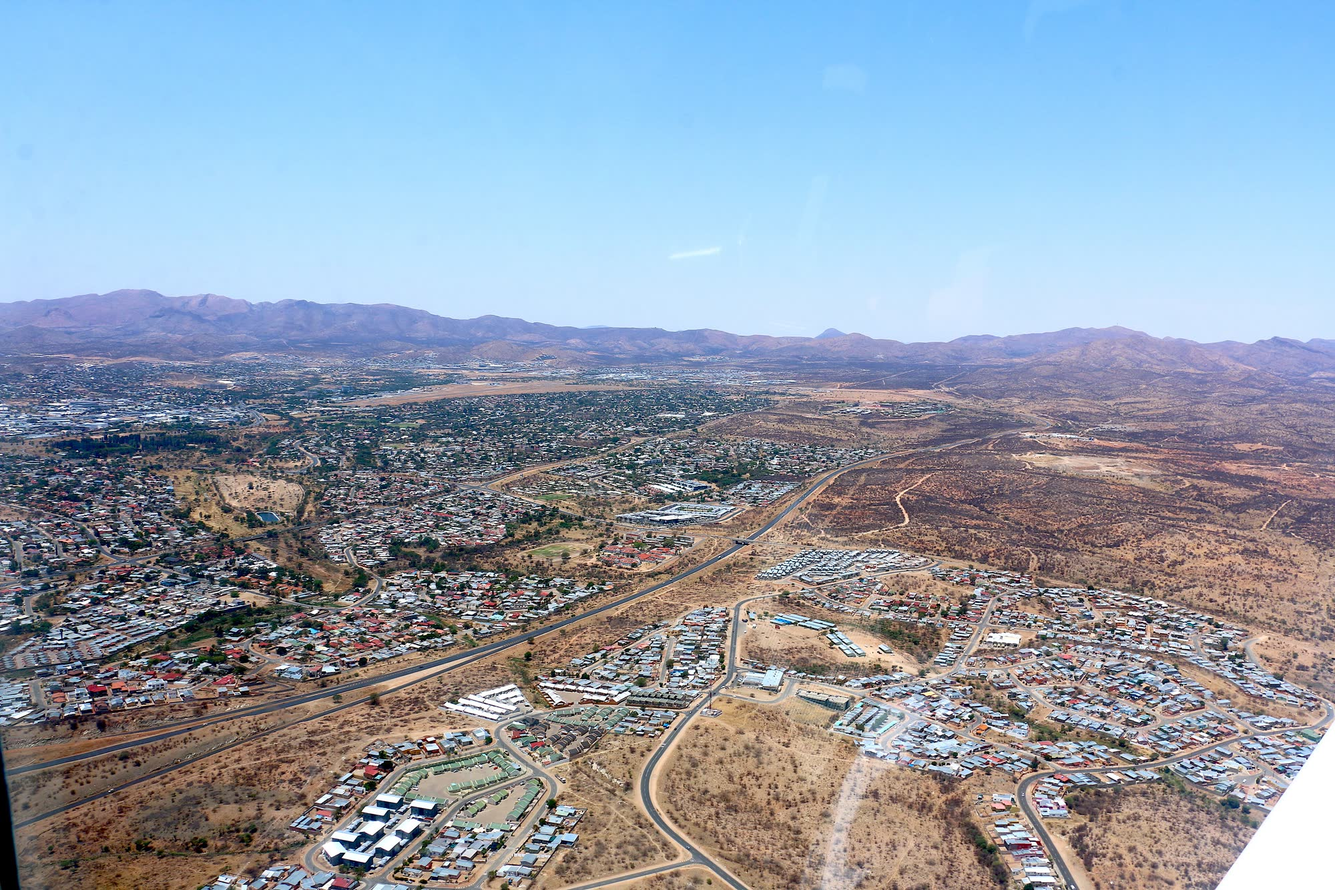
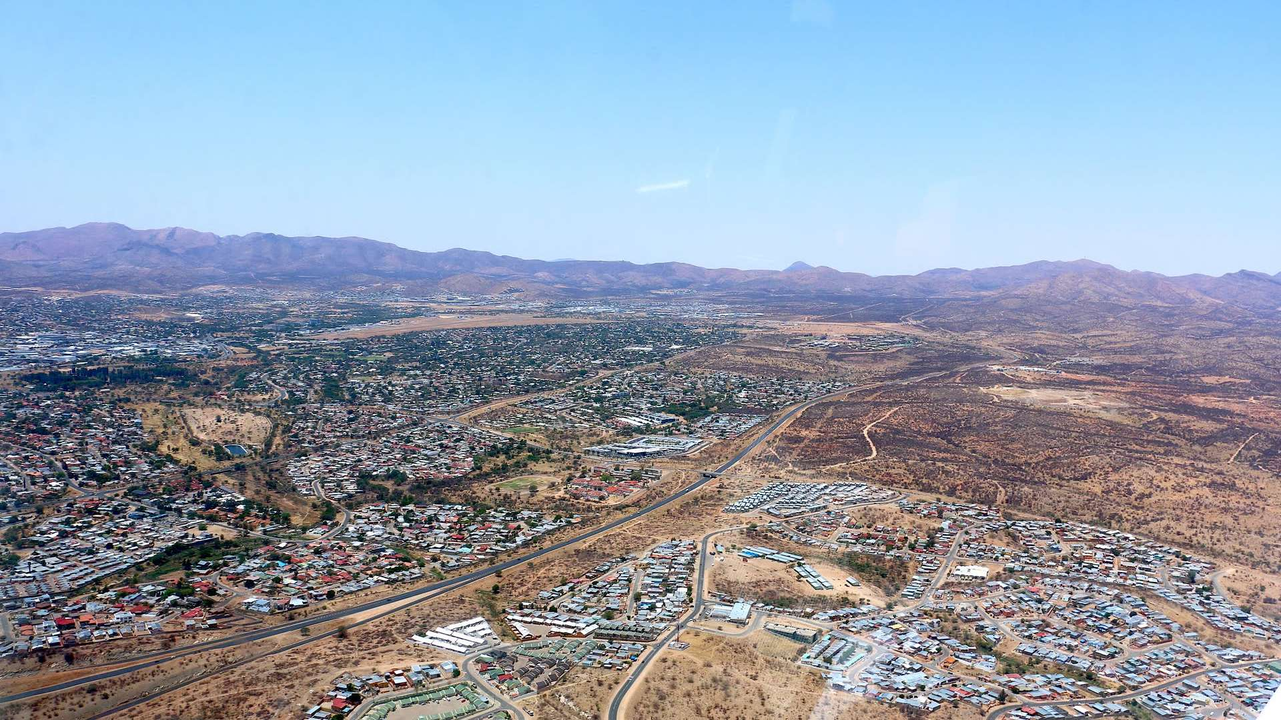
Apply design-taste audit fixes to the concept site
Recompress the hero and training photographs, tighten the type scale
and spacing, reserve brass for the primary action, and harden the
mobile menu, focus rings, and map treatment.

diff --git a/index.html b/index.html
@@ -14,146 +14,157 @@
 <style>
 :root{
   /* Deep green and brass on ivory: the quiet register of an audit practice, distinct from the navy used for law firms. */
-  --green:#12332b; --green-2:#1b4a3f; --brass:#d4ad5a; --brass-d:#7d5f17; --ivory:#f7f5ef; --white:#fff; --ink:#14201c; --slate:#475550;
-  --line:rgba(255,255,255,.2); --line-d:rgba(20,32,28,.16); --mute:rgba(255,255,255,.8);
+  --green:#12332b; --green-2:#1b4a3f; --green-mid:#2c5c50; --green-soft:#9db8b1;
+  --brass:#d4ad5a; --ivory:#f7f5ef; --white:#fff; --ink:#14201c; --slate:#475550;
+  --line:rgba(255,255,255,.2); --line-d:rgba(20,32,28,.16); --mute:#c8d2ce;
   --serif:"Newsreader",Georgia,"Times New Roman",serif;
   --sans:"Inter",system-ui,-apple-system,"Segoe UI",sans-serif;
-  --pad:clamp(20px,5vw,72px); --max:1200px;
+  --pad:clamp(24px,5vw,72px); --max:1200px;
 }
 *{box-sizing:border-box;margin:0;padding:0}
-html{scroll-behavior:smooth;-webkit-text-size-adjust:100%}
-body{font-family:var(--sans);background:var(--ivory);color:var(--ink);line-height:1.65;font-size:16.5px;overflow-x:hidden;-webkit-font-smoothing:antialiased}
+html{scroll-behavior:smooth;-webkit-text-size-adjust:100%;scroll-padding-top:96px}
+body{font-family:var(--sans);background:var(--ivory);color:var(--ink);line-height:1.65;font-size:16px;overflow-x:hidden;-webkit-font-smoothing:antialiased}
 img{display:block;max-width:100%}
 a{color:inherit;text-decoration:none}
 button{font:inherit;color:inherit;background:none;border:0;cursor:pointer}
 ::selection{background:var(--brass);color:var(--green)}
-:focus-visible{outline:3px solid var(--brass);outline-offset:3px}
+:focus-visible{outline:3px solid var(--ink);outline-offset:3px}
+header :focus-visible,
+.hero :focus-visible,
+.facts :focus-visible,
+.dark :focus-visible,
+.callbox :focus-visible,
+footer :focus-visible{outline-color:var(--brass)}
 .wrap{max-width:var(--max);margin:0 auto;padding:0 var(--pad)}
-h1,h2,h3{font-family:var(--serif);font-weight:400;line-height:1.1;letter-spacing:-.012em;text-wrap:balance}
-h2{font-size:clamp(2rem,4.2vw,3.2rem)}
-.eyebrow{font-size:.78rem;letter-spacing:.14em;text-transform:uppercase;font-weight:600;color:var(--brass-d)}
-.dark .eyebrow{color:var(--brass)}
-.skip{position:absolute;left:-999px;top:0;background:var(--white);color:var(--green);padding:12px 18px;z-index:300}
-.skip:focus{left:12px;top:12px}
-.btn{display:inline-flex;align-items:center;justify-content:center;min-height:48px;padding:13px 26px;font-weight:600;font-size:.93rem;border:2px solid var(--brass);transition:background .25s,color .25s,border-color .25s}
-.btn.fill{background:var(--brass);color:var(--green)}
+h1,h2,h3{font-family:var(--serif);font-weight:400;line-height:1.1;text-wrap:balance}
+h1{letter-spacing:-.025em}
+h2{font-size:clamp(2rem,4vw,3rem);letter-spacing:-.02em}
+h3{font-size:1.875rem;letter-spacing:-.01em}
+.eyebrow{font-size:.8125rem;letter-spacing:.14em;text-transform:uppercase;font-weight:600;color:var(--green-mid)}
+.dark .eyebrow{color:var(--green-soft)}
+.skip{position:absolute;left:-999px;top:0;background:var(--white);color:var(--green);padding:12px 16px;z-index:300}
+.skip:focus{left:16px;top:16px}
+.btn{display:inline-flex;align-items:center;justify-content:center;min-height:48px;padding:12px 24px;font-weight:600;font-size:1rem;border:2px solid var(--line);transition:background .25s,color .25s,border-color .25s}
+.btn.fill{background:var(--brass);color:var(--green);border-color:var(--brass)}
 .btn.fill:hover{background:var(--white);border-color:var(--white)}
-.btn.ghost{color:var(--white)}
-.btn.ghost:hover{background:var(--brass);color:var(--green)}
+.btn.ghost{color:var(--white);border-color:var(--line)}
+.btn.ghost:hover{background:var(--white);color:var(--green);border-color:var(--white)}
 .btn:active{transform:translateY(1px)}
 
 /* wordmark: set in type, a placeholder until the firm supplies its own logo */
-.mark{display:flex;align-items:center;gap:14px;min-width:0}
-.mono{flex:none;width:46px;height:46px;display:grid;place-items:center;border:1.5px solid var(--brass);color:var(--brass);font-family:var(--serif);font-size:1.2rem;letter-spacing:.04em}
-.mark .nm{font-family:var(--serif);color:var(--white);font-size:1.2rem;line-height:1.1;letter-spacing:.01em}
-.mark .nm small{display:block;font:600 .6rem var(--sans);letter-spacing:.24em;color:var(--brass);margin-top:4px;text-transform:uppercase}
+.mark{display:flex;align-items:center;gap:16px;min-width:0}
+.mono{flex:none;width:48px;height:48px;display:grid;place-items:center;border:1.5px solid var(--green-soft);color:var(--green-soft);font-family:var(--serif);font-size:1.25rem;letter-spacing:.04em}
+.mark .nm{font-family:var(--serif);color:var(--white);font-size:1.25rem;line-height:1.1;letter-spacing:.01em}
+.mark .nm small{display:block;font:600 .8125rem var(--sans);letter-spacing:.14em;color:var(--green-soft);margin-top:4px;text-transform:uppercase}
 
-header{position:fixed;inset:0 0 auto 0;z-index:100;background:var(--green);border-bottom:1px solid var(--line);transition:transform .35s}
-header.hide{transform:translateY(-100%)}
-.nav{display:flex;align-items:center;justify-content:space-between;height:78px;gap:24px}
-.links{display:flex;gap:30px;align-items:center}
-.links a{color:var(--mute);font-size:.93rem;padding:12px 0;text-decoration:underline transparent 2px;text-underline-offset:8px;transition:color .25s,text-decoration-color .25s}
-.links a:hover{color:var(--white);text-decoration-color:var(--brass)}
-.links .btn{color:var(--green);min-height:44px;padding:9px 20px;text-decoration:none;background:var(--brass)}
+header{position:fixed;top:0;left:0;right:0;z-index:100;background:var(--green);border-bottom:1px solid var(--line);transition:top .35s}
+header.hide{top:-81px}
+.nav{display:flex;align-items:center;justify-content:space-between;height:80px;gap:24px}
+.links{display:flex;gap:32px;align-items:center}
+.links a{color:var(--mute);font-size:1rem;padding:12px 0;text-decoration:underline transparent 2px;text-underline-offset:8px;transition:color .25s,text-decoration-color .25s}
+.links a:hover{color:var(--white);text-decoration-color:var(--white)}
+.links .btn{color:var(--white);min-height:48px;padding:8px 16px;text-decoration:none;background:transparent;border-color:var(--line)}
 .links .btn:hover{background:var(--white);border-color:var(--white);color:var(--green)}
-#burger{display:none;width:48px;height:48px;position:relative}
+#burger{display:none;width:48px;height:48px;position:relative;z-index:2}
 #burger i{position:absolute;left:12px;right:12px;height:2px;background:var(--white);transition:transform .3s,top .3s}
 #burger i:first-child{top:18px}#burger i:last-child{top:28px}
 .open #burger i:first-child{top:23px;transform:rotate(45deg)}
 .open #burger i:last-child{top:23px;transform:rotate(-45deg)}
 
 /* hero */
-.hero{background:var(--green);color:var(--white);display:grid;grid-template-columns:1.1fr .9fr;min-height:92svh;padding-top:78px}
-.hero .copy{padding:clamp(48px,8vw,110px) clamp(24px,5vw,72px) clamp(48px,7vw,90px) max(var(--pad),calc((100vw - var(--max))/2 + var(--pad)));display:flex;flex-direction:column;justify-content:center}
-.hero h1{font-size:clamp(2.5rem,5.4vw,4.8rem);max-width:13ch;margin:18px 0 24px}
+.hero{background:var(--green);color:var(--white);display:grid;grid-template-columns:1.1fr .9fr;min-height:92svh;padding-top:80px}
+.hero .copy{padding:clamp(48px,8vw,112px) clamp(24px,5vw,72px) clamp(48px,7vw,88px) max(var(--pad),calc((100vw - var(--max))/2 + var(--pad)));display:flex;flex-direction:column;justify-content:center}
+.hero h1{font-size:clamp(3rem,5.4vw,4.5rem);max-width:13ch;margin:16px 0 24px}
 .hero h1 em{font-style:italic;color:var(--brass)}
-.hero p.lead{max-width:520px;color:var(--mute);font-size:1.1rem}
-.cta{display:flex;gap:14px;flex-wrap:wrap;margin-top:34px}
-.hero .pic{position:relative;min-height:340px}
+.hero p.lead{max-width:520px;color:var(--mute);font-size:1.125rem}
+.cta{display:flex;gap:16px;flex-wrap:wrap;margin-top:32px}
+.hero .pic{position:relative;min-height:336px}
 .hero .pic img{position:absolute;inset:0;width:100%;height:100%;object-fit:cover;object-position:50% 40%;filter:saturate(.6)}
 .hero .pic::after{content:"";position:absolute;inset:0;background:linear-gradient(90deg,var(--green) 0,rgba(18,51,43,0) 24%)}
 
 /* facts strip */
 .facts{background:var(--green-2);color:var(--white);border-top:1px solid var(--line)}
 .facts ul{list-style:none;display:grid;grid-template-columns:repeat(3,1fr)}
-.facts li{padding:26px 28px 26px 0;font-size:.95rem;color:var(--mute)}
-.facts li+li{padding-left:28px;border-left:1px solid var(--line)}
-.facts b{display:block;font-family:var(--serif);font-weight:400;font-size:1.35rem;color:var(--white);margin-bottom:2px}
+.facts li{padding:24px 32px 24px 0;font-size:1rem;color:var(--mute)}
+.facts li+li{padding-left:32px;border-left:1px solid var(--line)}
+.facts b{display:block;font-family:var(--serif);font-weight:400;font-size:1.75rem;color:var(--white);margin-bottom:4px}
 
 /* services */
-.services{padding:clamp(80px,11vw,140px) 0;background:var(--ivory)}
-.services h2{margin:14px 0 14px;max-width:18ch}
+.services{padding:clamp(80px,11vw,144px) 0;background:var(--ivory)}
+.services h2{margin:16px 0;max-width:18ch}
 .services .sub{color:var(--slate);max-width:560px}
 .svc{display:grid;grid-template-columns:repeat(3,1fr);margin-top:56px;border-top:2px solid var(--green)}
-.svc article{padding:32px 30px 36px 0}
-.svc article+article{padding-left:30px;border-left:1px solid var(--line-d)}
-.svc .n{font-family:var(--serif);font-size:2.2rem;line-height:1;color:var(--brass-d)}
-.svc h3{font-size:1.7rem;margin:14px 0 10px}
+.svc article{padding:32px 32px 32px 0}
+.svc article+article{padding-left:32px;border-left:1px solid var(--line-d)}
+.svc .n{font-family:var(--serif);font-size:2rem;line-height:1;color:var(--green-mid)}
+.svc h3{margin:16px 0 8px}
 .svc p{color:var(--slate)}
 
 /* registered */
-.reg{background:var(--green);color:var(--white);padding:clamp(80px,11vw,140px) 0}
+.reg{background:var(--green);color:var(--white);padding:clamp(80px,11vw,144px) 0}
 .reg .grid{display:grid;grid-template-columns:.9fr 1.1fr;gap:clamp(32px,6vw,96px);align-items:start}
-.reg h2{margin:14px 0 18px}
-.reg .lede{color:var(--mute);max-width:430px}
+.reg h2{margin:16px 0}
+.reg .lede{color:var(--mute);max-width:432px}
 .reg ul{list-style:none;border-top:1px solid var(--line)}
-.reg li{display:grid;grid-template-columns:1fr auto;gap:18px;padding:24px 0;border-bottom:1px solid var(--line);align-items:baseline}
-.reg li h3{font-size:1.5rem}
-.reg li p{color:var(--mute);font-size:.95rem;margin-top:4px}
-.reg li a{color:var(--brass);font-weight:600;font-size:.9rem;text-decoration:underline;text-underline-offset:5px;padding:13px 0;white-space:nowrap}
-.reg li a:hover{color:var(--white)}
+.reg li{display:grid;grid-template-columns:1fr auto;gap:16px;padding:24px 0;border-bottom:1px solid var(--line);align-items:baseline}
+.reg li h3{font-size:1.75rem}
+.reg li p{color:var(--mute);font-size:1rem;margin-top:4px}
+.reg li a{color:var(--green-soft);font-weight:600;font-size:1rem;text-decoration:underline;text-underline-offset:8px;padding:16px 0;white-space:nowrap}
+.reg li a:hover{color:var(--brass)}
 
 /* training */
-.train{position:relative;overflow:hidden;color:var(--white);padding:clamp(90px,12vw,170px) 0}
-.train>img{position:absolute;inset:0;width:100%;height:100%;object-fit:cover;filter:saturate(.45)}
-.train::before{content:"";position:absolute;inset:0;z-index:1;background:rgba(18,51,43,.86)}
+.train{position:relative;overflow:hidden;color:var(--white);padding:clamp(96px,12vw,168px) 0}
+.train>img{position:absolute;inset:0;width:100%;height:100%;object-fit:cover;object-position:50% 60%;filter:saturate(.6)}
+.train::before{content:"";position:absolute;inset:0;z-index:1;background:linear-gradient(90deg,rgba(18,51,43,.78) 0%,rgba(18,51,43,.72) 32%,rgba(18,51,43,.35) 58%,rgba(18,51,43,.22) 100%)}
 .train .wrap{position:relative;z-index:2}
-.train h2{margin:14px 0 18px;max-width:17ch}
-.train p.t{color:var(--mute);max-width:560px;font-size:1.08rem}
+.train h2{margin:16px 0;max-width:17ch}
+.train p.t{color:var(--mute);max-width:560px;font-size:1.125rem}
 
 /* contact */
-.contact{padding:clamp(80px,11vw,140px) 0 0;background:var(--ivory)}
+.contact{padding:clamp(80px,11vw,144px) 0 0;background:var(--ivory)}
 .contact .grid{display:grid;grid-template-columns:1fr 1fr;gap:clamp(32px,6vw,96px);align-items:start}
-.contact h2{margin:14px 0 34px}
-.dl div{display:grid;grid-template-columns:110px 1fr;gap:18px;padding:18px 0;border-top:1px solid var(--line-d)}
-.dl dt{font-size:.78rem;letter-spacing:.12em;text-transform:uppercase;font-weight:600;color:var(--brass-d);padding-top:6px}
-.dl dd{font-family:var(--serif);font-size:1.4rem;line-height:1.35}
-.dl dd a{text-decoration:underline var(--line-d) 1px;text-underline-offset:6px;display:inline-block;padding:8px 0}
-.dl dd a:hover{text-decoration-color:var(--brass-d)}
-.dl dd small{display:block;font-family:var(--sans);font-size:.9rem;color:var(--slate);margin-top:2px}
-.callbox{background:var(--green);color:var(--white);padding:clamp(28px,3.6vw,48px)}
-.callbox h3{font-size:1.9rem;margin-bottom:10px}
+.contact h2{margin:16px 0 32px}
+.dl div{display:grid;grid-template-columns:112px 1fr;gap:16px;padding:16px 0;border-top:1px solid var(--line-d)}
+.dl dt{font-size:.8125rem;letter-spacing:.12em;text-transform:uppercase;font-weight:600;color:var(--green-mid);padding-top:8px}
+.dl dd{font-family:var(--serif);font-size:1.75rem;line-height:1.35}
+.dl dd a{text-decoration:underline var(--line-d) 1px;text-underline-offset:8px;display:inline-block;padding:8px 0}
+.dl dd a:hover{text-decoration-color:var(--green-mid)}
+.dl dd small{display:block;font-family:var(--sans);font-size:1rem;color:var(--slate);margin-top:4px}
+.callbox{background:var(--green);color:var(--white);padding:clamp(32px,3.6vw,48px)}
+.callbox h3{margin-bottom:8px}
 .callbox p{color:var(--mute);margin-bottom:24px}
-.callbox .btn{width:100%;margin-top:10px}
-.map{margin-top:clamp(64px,8vw,110px);background:var(--green-2)}
-.map iframe{display:block;width:100%;height:420px;border:0}
+.callbox .btn{width:100%;margin-top:8px}
+.map{margin-top:clamp(64px,8vw,112px);background:var(--green-2);position:relative;overflow:hidden}
+.map iframe{display:block;width:100%;height:416px;border:0;filter:grayscale(1) contrast(1.08) brightness(.9) sepia(.4) hue-rotate(105deg) saturate(.5)}
+.map::after{content:"";position:absolute;inset:0;pointer-events:none;background:var(--green);opacity:.2;mix-blend-mode:multiply}
 
-footer{background:var(--green);color:var(--mute);padding:44px 0 34px}
+footer{background:var(--green);color:var(--mute);padding:48px 0 32px}
 .fb{display:flex;justify-content:space-between;align-items:center;gap:24px;flex-wrap:wrap}
 .fb a.top{text-decoration:underline;text-underline-offset:4px;padding:12px 0}
-.fb a.top:hover{color:var(--brass)}
-.credits{font-size:.84rem;margin-top:22px;line-height:1.7;max-width:900px;border-top:1px solid var(--line);padding-top:18px}
+.fb a.top:hover{color:var(--white)}
+.credits{font-size:.8125rem;margin-top:24px;line-height:1.7;max-width:900px;border-top:1px solid var(--line);padding-top:16px}
 .credits a{text-decoration:underline}
 
-@media (max-width:1000px){.svc{grid-template-columns:1fr}.svc article{padding:28px 0}.svc article+article{padding-left:0;border-left:0;border-top:1px solid var(--line-d)}}
+@media (max-width:1000px){.svc{grid-template-columns:1fr}.svc article{padding:32px 0}.svc article+article{padding-left:0;border-left:0;border-top:1px solid var(--line-d)}}
 @media (max-width:900px){
   #burger{display:block;z-index:2}
-  .links{position:fixed;inset:0;background:var(--green);flex-direction:column;justify-content:center;gap:20px;visibility:hidden;opacity:0;transition:opacity .25s,visibility 0s .25s}
-  .open .links{visibility:visible;opacity:1;transition:opacity .25s}
-  .links a{font-family:var(--serif);font-size:1.9rem;color:var(--white)}
-  .links .btn{font-family:var(--sans);font-size:1rem;margin-top:12px}
+  .links{position:fixed;inset:0;z-index:1;background:var(--green);flex-direction:column;justify-content:center;gap:24px;visibility:hidden;opacity:0;pointer-events:none;transition:opacity .25s,visibility 0s .25s}
+  .open .links{visibility:visible;opacity:1;pointer-events:auto;transition:opacity .25s}
+  .links a{font-family:var(--serif);font-size:1.875rem;color:var(--white)}
+  .links .btn{font-family:var(--sans);font-size:1rem;margin-top:16px}
   .hero{grid-template-columns:1fr;min-height:0}
   .hero .copy{padding:40px var(--pad) 56px}
   .hero .pic{min-height:280px;order:-1}
   .hero .pic::after{background:linear-gradient(0deg,var(--green) 0,rgba(18,51,43,0) 40%)}
   .facts ul{grid-template-columns:1fr}
-  .facts li,.facts li+li{padding:18px 0;border-left:0}
+  .facts li,.facts li+li{padding:16px 0;border-left:0}
   .facts li+li{border-top:1px solid var(--line)}
   .reg .grid,.contact .grid{grid-template-columns:1fr}
-  .dl div{grid-template-columns:1fr;gap:4px}
-  .reg li{grid-template-columns:1fr;gap:6px}
+  .dl div{grid-template-columns:1fr;gap:8px}
+  .reg li{grid-template-columns:1fr;gap:8px}
+  .train::before{background:linear-gradient(0deg,rgba(18,51,43,.78) 0%,rgba(18,51,43,.7) 42%,rgba(18,51,43,.28) 100%)}
 }
-@media (max-width:560px){.mark .nm{font-size:1.02rem}}
+@media (max-width:560px){.mark .nm{font-size:1.125rem}}
 @media (prefers-reduced-motion:reduce){*,*::before,*::after{transition-duration:.01ms!important;scroll-behavior:auto!important}}
 </style>
 </head>
@@ -189,7 +200,7 @@ footer{background:var(--green);color:var(--mute);padding:44px 0 34px}
       <a href="tel:+26461258371" class="btn ghost">Call 061 258 371</a>
     </div>
   </div>
-  <div class="pic"><img src="assets/hero.jpg" width="2200" height="1238" fetchpriority="high" alt="Aerial view of the Christuskirche and central Windhoek"></div>
+  <div class="pic"><img src="assets/hero.jpg" srcset="assets/hero-800.jpg 800w, assets/hero-1400.jpg 1400w, assets/hero-2000.jpg 2000w" sizes="(max-width: 900px) 100vw, 45vw" width="2200" height="1238" fetchpriority="high" alt="Aerial view of the Christuskirche and central Windhoek"></div>
 </section>
 
 <section class="facts" aria-label="At a glance">
@@ -230,7 +241,7 @@ footer{background:var(--green);color:var(--mute);padding:44px 0 34px}
 </section>
 
 <section class="train dark" id="training">
-  <img src="assets/windhoek.jpg" width="2000" height="1333" loading="lazy" alt="Windhoek seen from the air, with the Khomas highlands beyond">
+  <img src="assets/windhoek.jpg" srcset="assets/windhoek-800.jpg 800w, assets/windhoek-1400.jpg 1400w, assets/windhoek.jpg 1920w" sizes="100vw" width="1920" height="1080" loading="lazy" alt="Windhoek seen from the air, with the Khomas highlands beyond">
   <div class="wrap">
     <p class="eyebrow">Training office</p>
     <h2>Where trainee accountants earn their experience.</h2>
@@ -255,7 +266,7 @@ footer{background:var(--green);color:var(--mute);padding:44px 0 34px}
       <a class="btn ghost" href="tel:+26461264440">Call +264 61 264 440</a>
     </div>
   </div>
-  <div class="map"><iframe title="Map showing 50 Olof Palme Street, Klein Windhoek" width="1200" height="420" loading="lazy" referrerpolicy="no-referrer-when-downgrade" src="https://www.google.com/maps?q=50+Olof+Palme+Street,+Klein+Windhoek,+Namibia&z=16&output=embed"></iframe></div>
+  <div class="map"><iframe title="Map showing 50 Olof Palme Street, Klein Windhoek" width="1200" height="416" loading="lazy" referrerpolicy="no-referrer-when-downgrade" src="https://www.google.com/maps?q=50+Olof+Palme+Street,+Klein+Windhoek,+Namibia&z=16&output=embed"></iframe></div>
 </section>
 
 </main>
